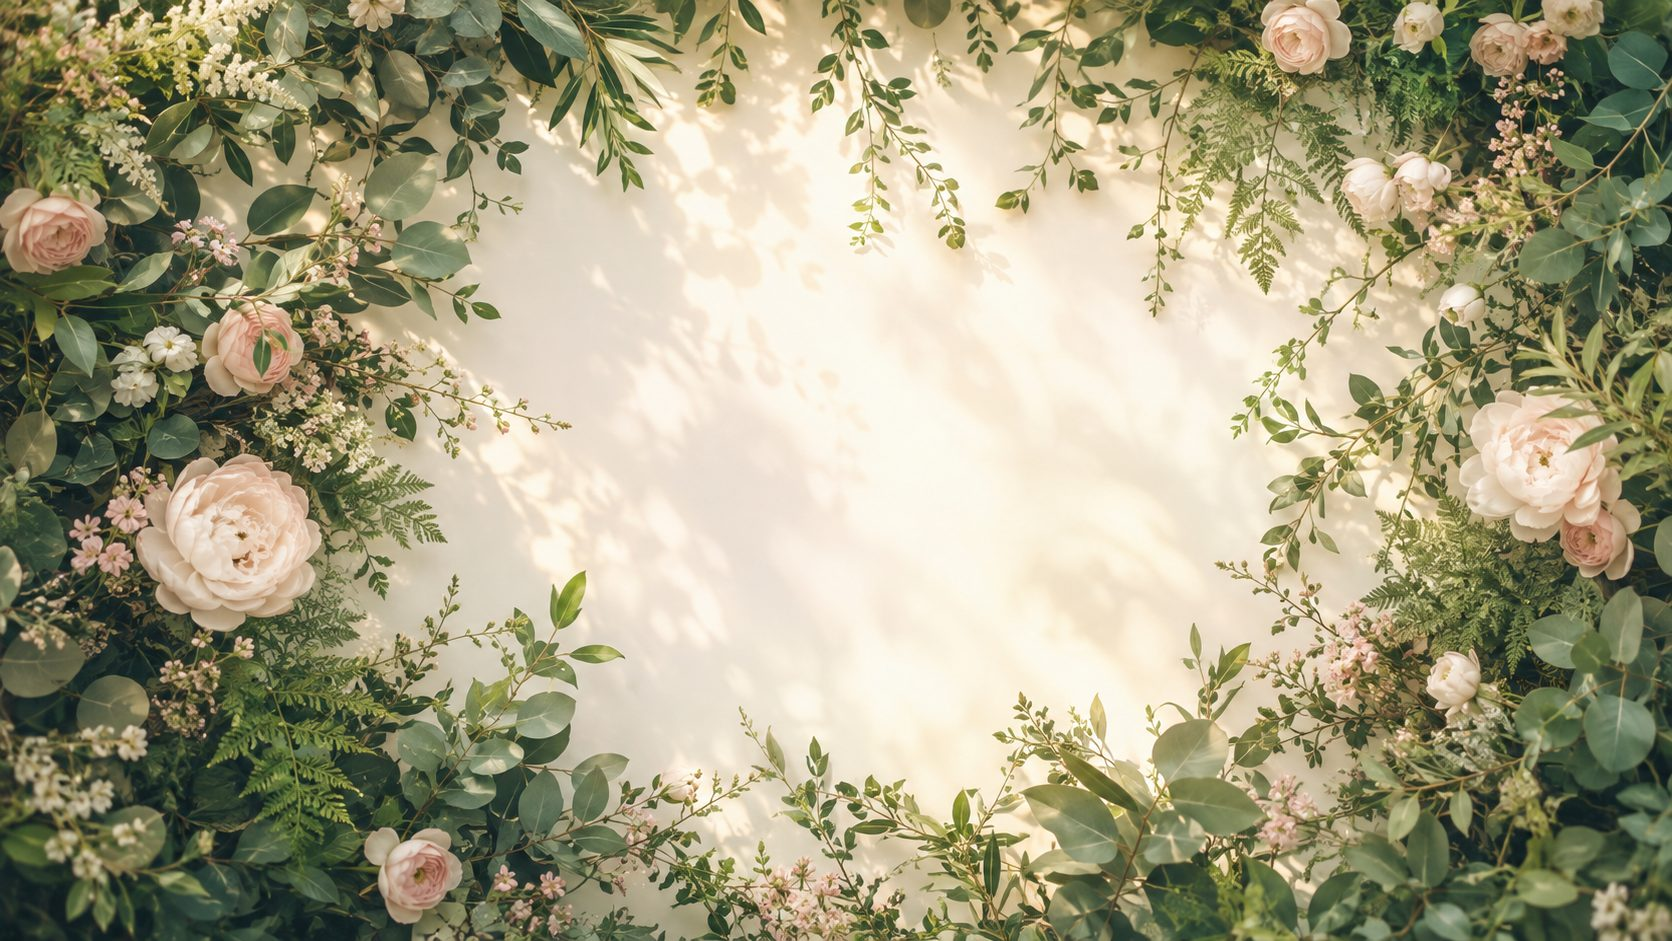
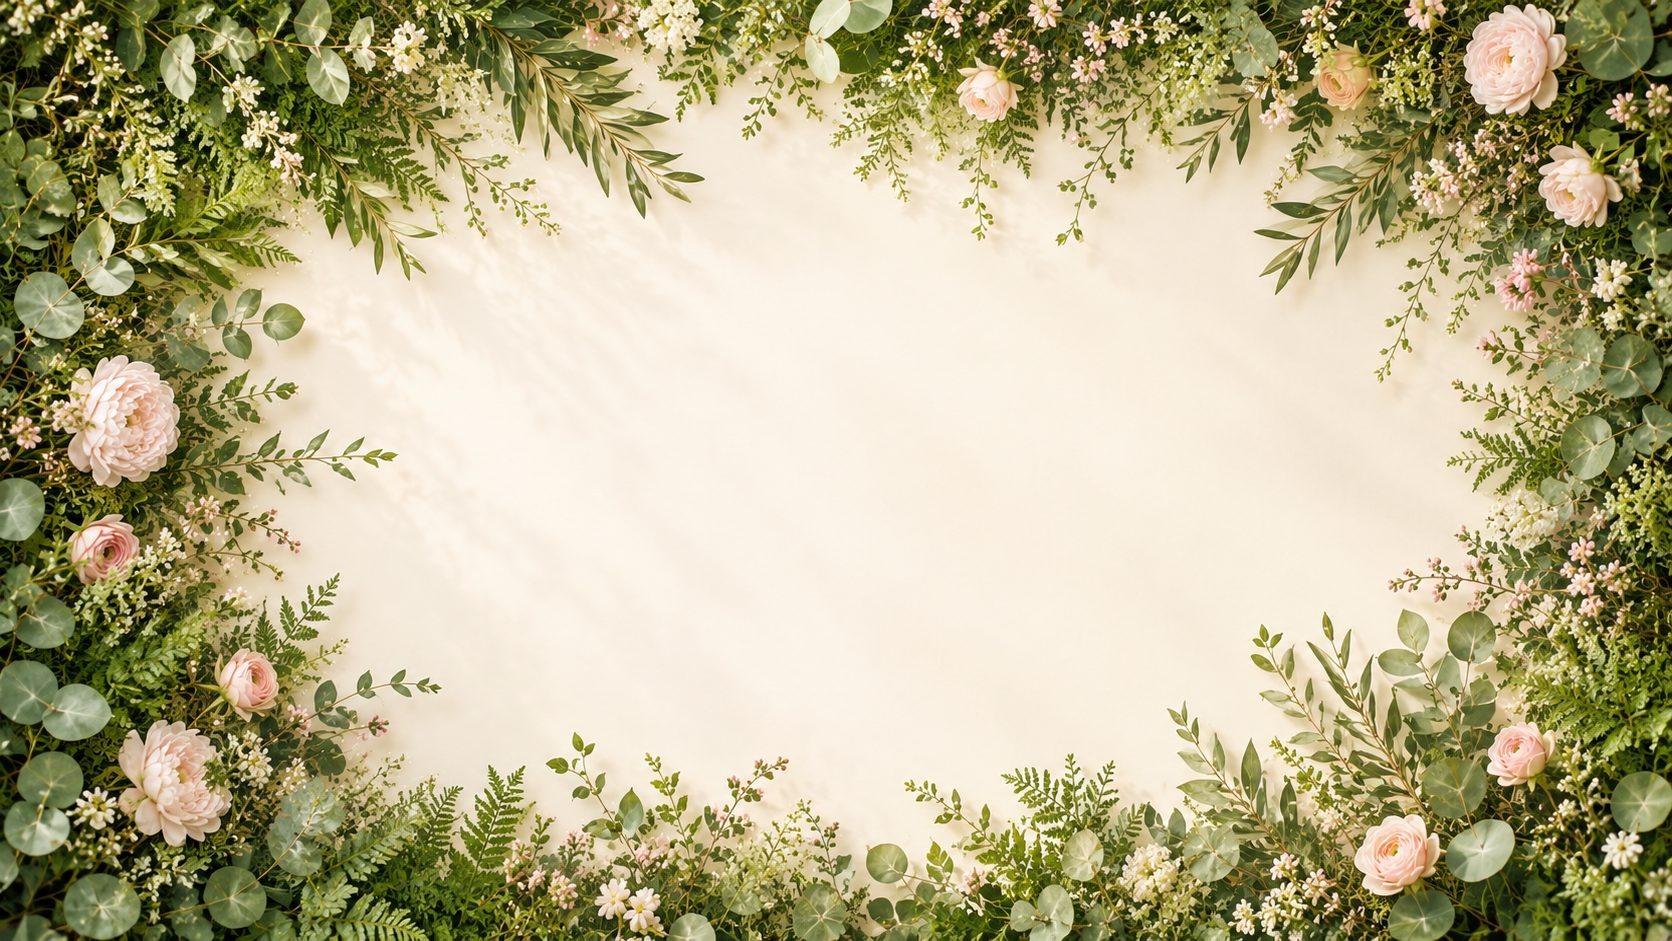
Swap in the new floral backdrop
Re-export assets/bg-floral from the couple's new source image — a wider,
more open cream centre with a denser wreath, which gives the envelope more
room to sit in the middle. WebP 284 KB, JPEG fallback 330 KB, native
1672x941.

Add a ?v= query to the background-image URLs. The filename is unchanged,
so without it browsers keep painting the previous picture from cache no
matter how many times the stylesheet is busted.

diff --git a/css/save-the-date.css b/css/save-the-date.css
@@ -69,10 +69,13 @@ body {
      ivory keeps the page on-palette while the image loads; the plain url() is a
      fallback for browsers without image-set(). */
   background-color: var(--ivory);
-  background-image: url(../assets/bg-floral.jpg);
+  /* the ?v= is a cache buster on the IMAGE itself — bump it whenever bg-floral is
+     re-exported, or browsers keep serving the previous picture from cache even
+     though the file on disk changed. */
+  background-image: url(../assets/bg-floral.jpg?v=2);
   background-image: image-set(
-    url(../assets/bg-floral.webp) type("image/webp"),
-    url(../assets/bg-floral.jpg)  type("image/jpeg"));
+    url(../assets/bg-floral.webp?v=2) type("image/webp"),
+    url(../assets/bg-floral.jpg?v=2)  type("image/jpeg"));
   background-size: cover;
   background-position: center;
   background-repeat: no-repeat;

diff --git a/save-the-date.html b/save-the-date.html
@@ -33,7 +33,7 @@
   <!-- Bespoke save-the-date theme (mirrors the locked sage + blush palette).
        The ?v= query is a cache buster — bump it whenever the CSS or JS changes so
        browsers pick the new file up without a hard refresh. -->
-  <link rel="stylesheet" href="css/save-the-date.css?v=11" />
+  <link rel="stylesheet" href="css/save-the-date.css?v=12" />
 
   <!-- No-JS fallback: hide the envelope pieces so the sandwiched letter shows. -->
   <noscript>
